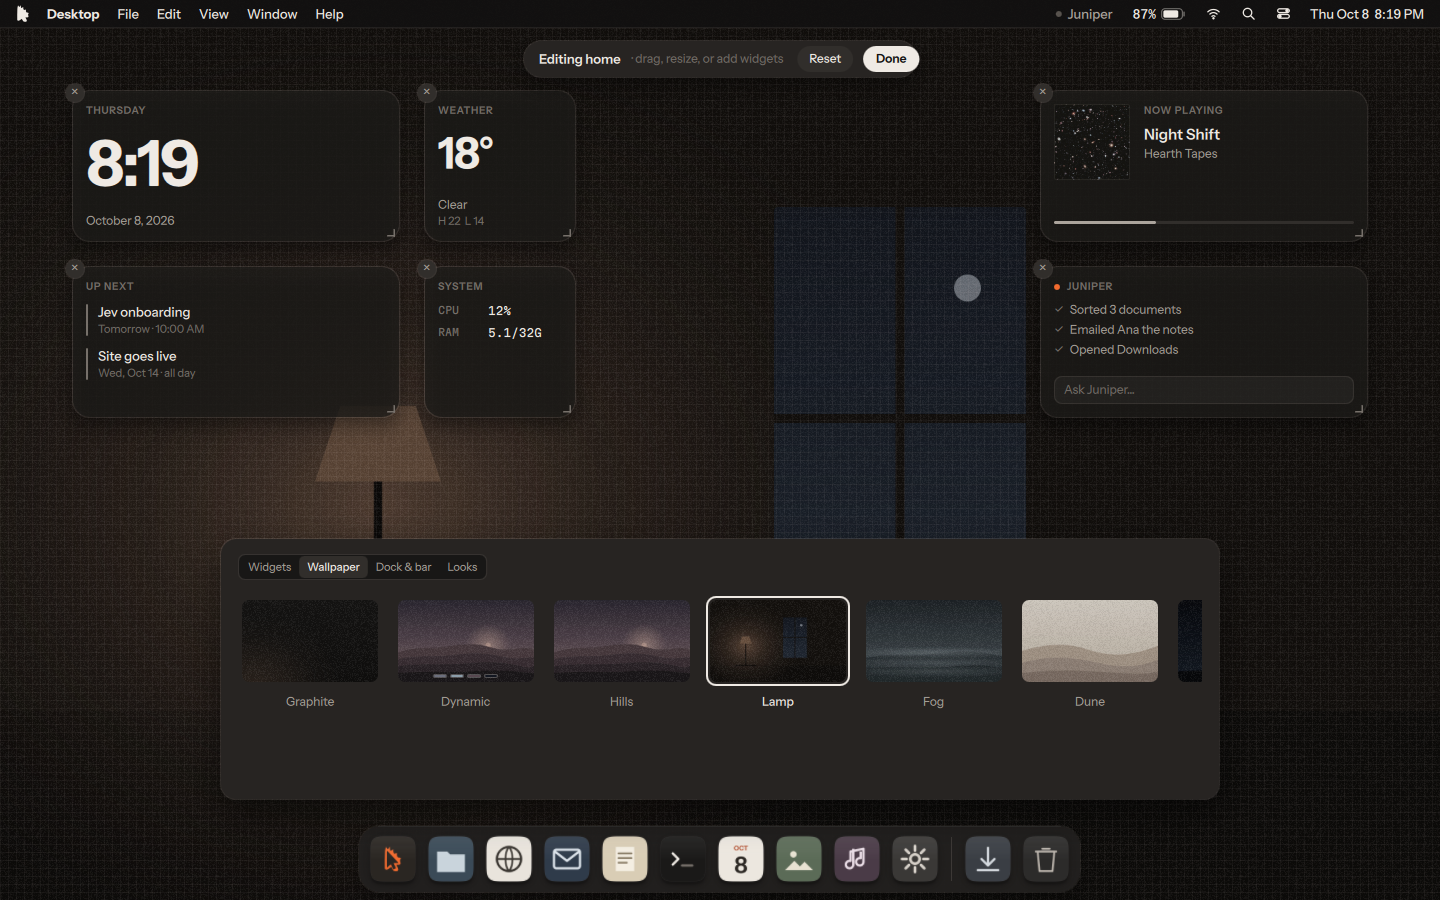
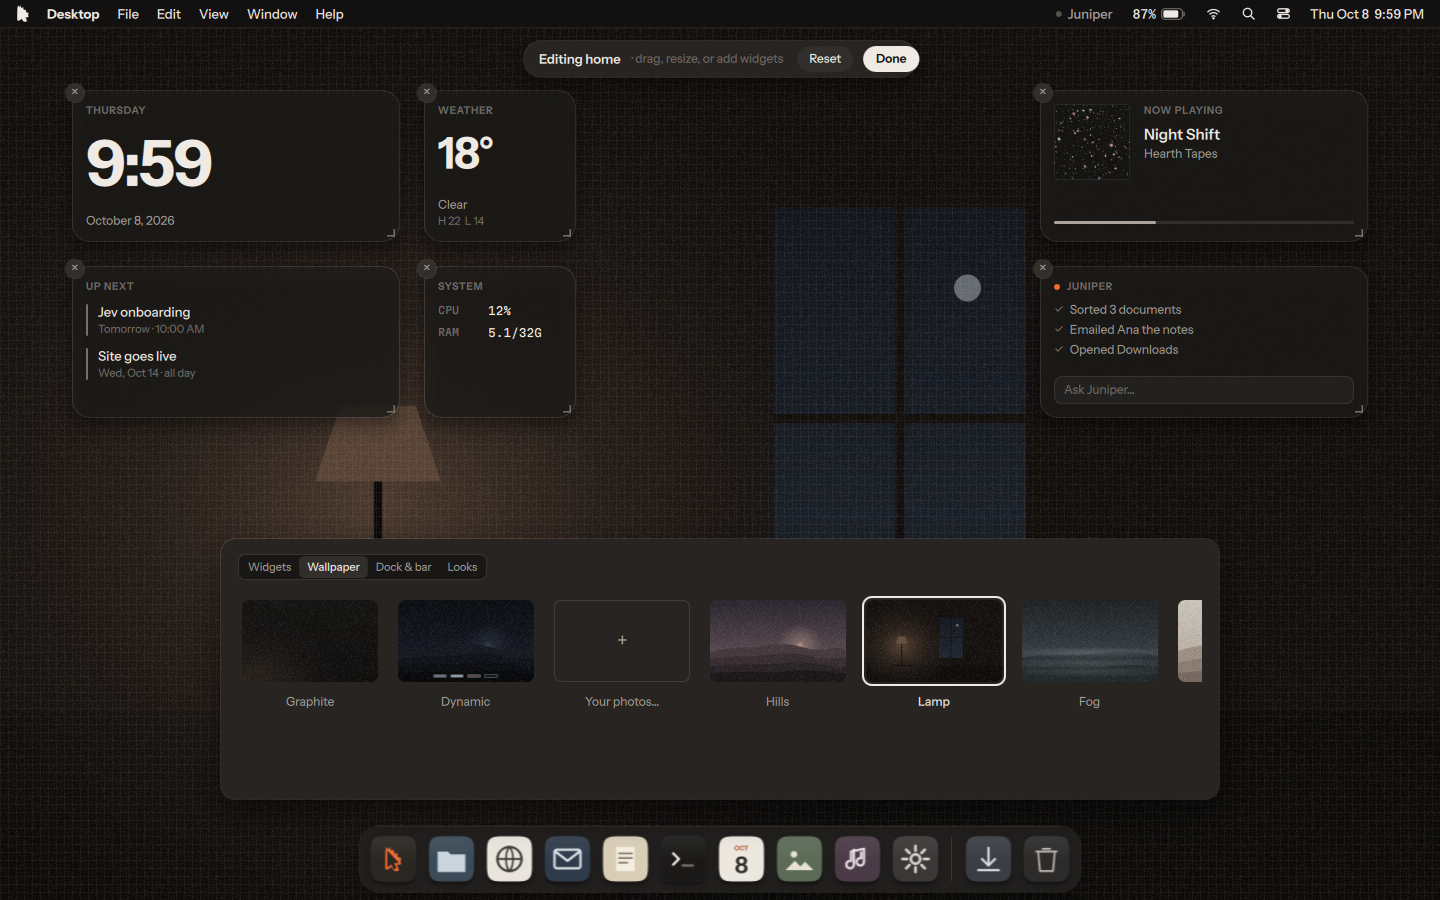
Wallpaper tab: Your photos right after Graphite and Dynamic
Claude-Session: https://claude.ai/code/session_01B11KmgS7KywUE1jfuntsyj

diff --git a/shell/components/EditHome.qml b/shell/components/EditHome.qml
@@ -229,34 +229,23 @@ Item {
                 }
             }
 
-            // Wallpaper: ours (drawn), Dynamic (follows the time of day), two photos, then yours
+            // Wallpaper: Graphite, Dynamic (follows the time of day), yours, then the rest of ours
             ListView {
                 id: walls
                 visible: eh.tab === "Wallpaper"
                 anchors.fill: parent
                 orientation: ListView.Horizontal; spacing: 12; clip: true
                 boundsBehavior: Flickable.StopAtBounds
-                model: Walls.LIST
-                footer: Item {
-                    width: 144 + 12; height: walls.height
-                    Column {
-                        x: 12; spacing: 8
-                        property string aiName: "Your photos"; property string aiRole: "button"
-                        function aiActivate() { picker.open(); }
-                        Rectangle {
-                            width: 144; height: 90; radius: 10; color: "transparent"; border.color: Theme.hairline2; border.width: 1
-                            Text { anchors.centerIn: parent; text: "+"; color: Theme.text2; font.family: Theme.font; font.pixelSize: 20 }
-                            MouseArea { anchors.fill: parent; onClicked: picker.open() }
-                        }
-                        Text { anchors.horizontalCenter: parent.horizontalCenter; text: "Your photos…"; color: Theme.text2; font.family: Theme.font; font.pixelSize: 12 }
-                    }
-                }
+                model: Walls.LIST.slice(0, 2).concat([["yours", "Your photos…"]], Walls.LIST.slice(2))
                 delegate: Column {
                     id: wpc
                     required property var modelData
-                    readonly property bool on: Os.settings.wallpaper === modelData[0]
-                    property string aiName: modelData[1] + " wallpaper"; property string aiRole: "radio"
-                    function aiActivate() { Os.settings.wallpaper = modelData[0]; }
+                    // "Your photos…": a + until you pick one, then that photo, selected
+                    readonly property bool yours: modelData[0] === "yours"
+                    readonly property bool mine: String(Os.settings.wallpaper).indexOf("file:") === 0
+                    readonly property bool on: yours ? mine : Os.settings.wallpaper === modelData[0]
+                    property string aiName: yours ? "Your photos" : modelData[1] + " wallpaper"; property string aiRole: yours ? "button" : "radio"
+                    function aiActivate() { if (yours) picker.open(); else Os.settings.wallpaper = modelData[0]; }
                     spacing: 8
                     Rectangle {
                         width: 144; height: 90; radius: 10; color: "transparent"
@@ -265,7 +254,12 @@ Item {
                             anchors.fill: parent; anchors.margins: 4
                             layer.enabled: true
                             layer.effect: MultiEffect { maskEnabled: true; maskSource: wpMask; maskThresholdMin: 0.5; maskSpreadAtMin: 1 }
-                            Wallpaper { anchors.fill: parent; pick: wpc.modelData[0]; Rectangle { anchors.fill: parent; color: "transparent" } }
+                            Wallpaper { visible: !wpc.yours || wpc.mine; anchors.fill: parent; pick: wpc.yours ? Os.settings.wallpaper : wpc.modelData[0] }
+                        }
+                        Rectangle {
+                            visible: wpc.yours && !wpc.mine
+                            anchors.fill: parent; anchors.margins: 4; radius: 7; color: "transparent"; border.color: Theme.hairline2; border.width: 1
+                            Text { anchors.centerIn: parent; text: "+"; color: Theme.text2; font.family: Theme.font; font.pixelSize: 20 }
                         }
                         Rectangle { id: wpMask; anchors.fill: parent; anchors.margins: 4; radius: 7; visible: false; layer.enabled: true }
                         // Dynamic shows its four lights as a strip along the bottom
